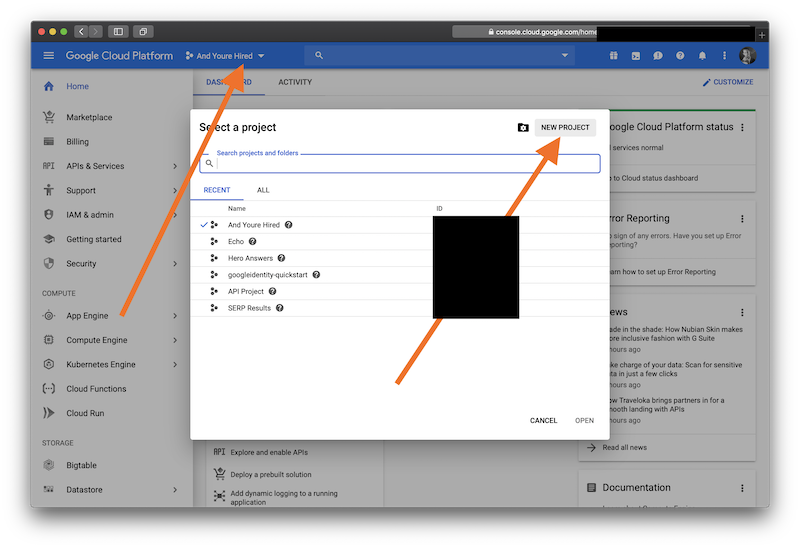
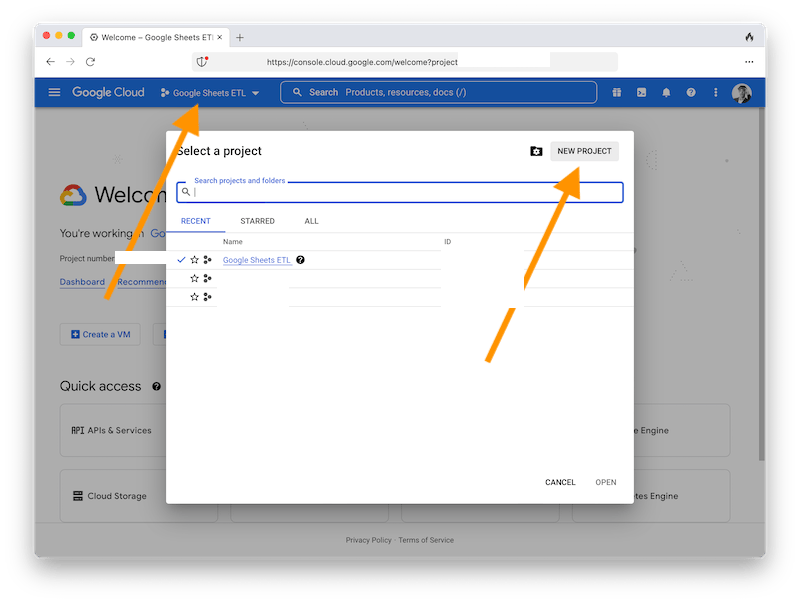
Update Google documentation

diff --git a/GOOGLE-SETUP.md b/GOOGLE-SETUP.md
@@ -1,7 +1,7 @@
 Google Service Account Setup
 =================
 
-You will create a Google Service Account which you, your employees, or others will share files with. Google Sheets ETL will log in to Google as the service account to access those files.
+You will create a Google Service Account which you, your employees, or others will share files with. Google Sheets ETL will log into Google as this service account to access those files.
 
 ## Create a Google account
 
@@ -9,60 +9,47 @@ Use your Gmail account or corporate account.
 
 ## Create a Cloud Platform project
 
-Start at https://console.cloud.google.com/
+1. Start at https://console.cloud.google.com/ and create a project
+   ![1 create project](./GOOGLE-SETUP.assets/1 create project.png)
 
-![1 create project](GOOGLE-SETUP.assets/1 create project.png)
+2. Open that project (it takes a moment to load)
+   ![2 open project](./GOOGLE-SETUP.assets/2 open project.png)
 
-![2 set project name](GOOGLE-SETUP.assets/2 set project name.png)
+3. Add the Google Drive API to the project
+   ![3 add google drive api A](./GOOGLE-SETUP.assets/3 add google drive api A.png)
 
-Then you have to open that project (it takes a moment to create).
+   ![3 add google drive api B](./GOOGLE-SETUP.assets/3 add google drive api B.png)
 
-![3 open that project](GOOGLE-SETUP.assets/3 open that project.png)
+   ![3 add google drive api C](./GOOGLE-SETUP.assets/3 add google drive api C.png)
 
-## Add the Google Drive API to the project
+   ![3 add google drive api D](./GOOGLE-SETUP.assets/3 add google drive api D.png)
 
-![4 access api settings](GOOGLE-SETUP.assets/4 access api settings.png)
+   ![3 add google drive api E](./GOOGLE-SETUP.assets/3 add google drive api E.png)
 
-![5 enable api](GOOGLE-SETUP.assets/5 enable api.png)
+4. Add the Google Sheets API to the project
 
-![6 select drive api](GOOGLE-SETUP.assets/6 select drive api.png)
+   1. Click GOOGLE CLOUD logo on the top left
+   2. Repeat the step above to OPEN the project
+   3. Repeat the step above to ENABLE API
+   4. Repeat the step above to ENABLE the Google Sheets API (instead of the Google Drive API)
 
-![7 enable drive api](GOOGLE-SETUP.assets/7 enable drive api.png)
+5. Create a service account for the project
 
-## Add the Google Sheets API to the project
+   ![5 create service account A](./GOOGLE-SETUP.assets/5 create service account A.png)
 
-![8 select project](GOOGLE-SETUP.assets/8 select project.png)
+   ![5 create service account B](./GOOGLE-SETUP.assets/5 create service account B.png)
 
-![9 access api settings](GOOGLE-SETUP.assets/9 access api settings.png)
+   ![5 create service account C](./GOOGLE-SETUP.assets/5 create service account C.png)
 
-![10 enable api](GOOGLE-SETUP.assets/10 enable api.png)
+   ![5 create service account D](./GOOGLE-SETUP.assets/5 create service account D.png)
 
-![11 select sheets api](GOOGLE-SETUP.assets/11 select sheets api.png)
+6. Create key
 
-![12 enable sheets api](GOOGLE-SETUP.assets/12 enable sheets api.png)
+   ![6 create key A](./GOOGLE-SETUP.assets/6 create key A.png)
 
-## Create a service account for the project
+   ![6 create key B](./GOOGLE-SETUP.assets/6 create key B.png)
 
-![13 create credentials](GOOGLE-SETUP.assets/13 create credentials.png)
+7. Open that downloaded file
 
-![14 select service accounts](GOOGLE-SETUP.assets/14 select service accounts.png)
-
-![15 create service account](GOOGLE-SETUP.assets/15 create service account.png)
-
-![16 configure service account](GOOGLE-SETUP.assets/16 configure service account.png)
-
-![17 skip permissions](GOOGLE-SETUP.assets/17 skip permissions.png)
-
-## Create an access key for this service account
-
-![18 create key](GOOGLE-SETUP.assets/18 create key.png)
-
-![19 download key](GOOGLE-SETUP.assets/19 download key.png)
-
-## Open the key
-
-![20 view key](GOOGLE-SETUP.assets/20 view key.png)
-
-The client_email is the email address for your service account. You will share your Google Sheets with that account, or entire folders from Google Drive.
-
-Save that key file to your `local` folder in the project folder.
+   1. The `client_email` is the email address for your service account. You will share your Google Sheets with that account, or entire folders from Google Drive.
+   2. Save that key file to your `local` folder in the project folder.
